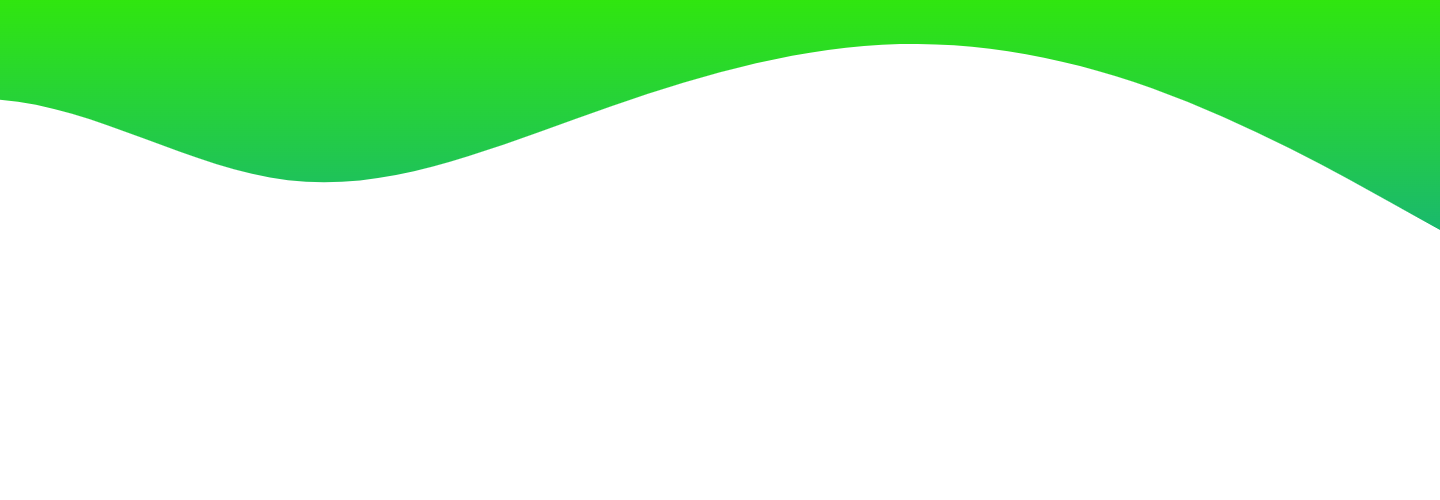
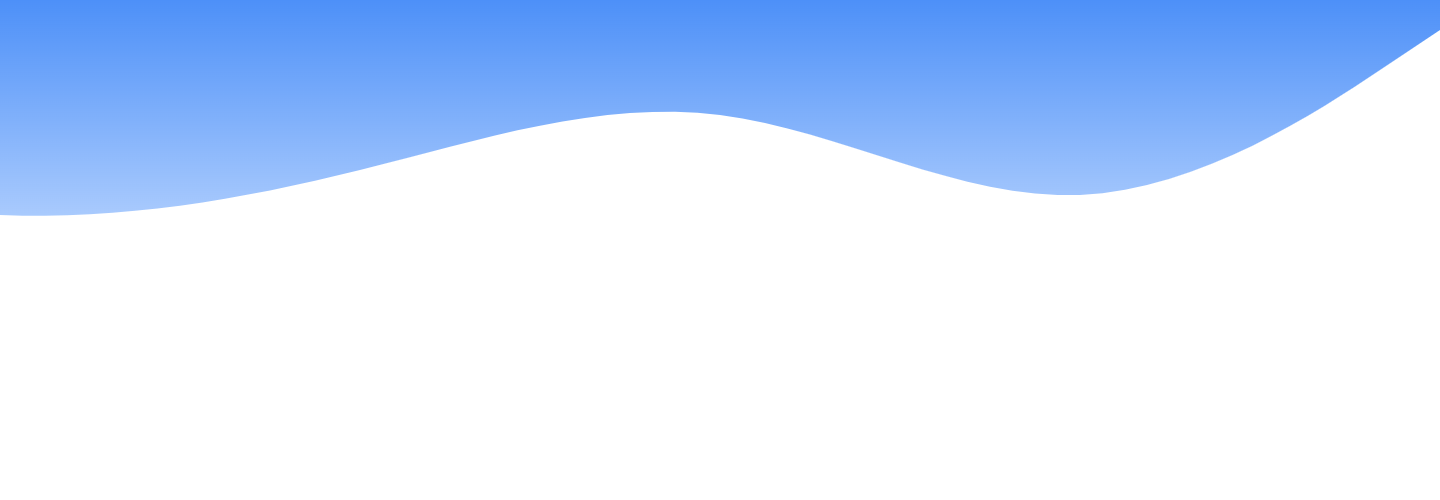
fix color hover

diff --git a/resources/scss/partials/_dashboard.scss b/resources/scss/partials/_dashboard.scss
@@ -34,7 +34,7 @@ body {
   width: 300px;
   height: 100%;
   // background: var(--blue);
-  background-image: url('https://c0.wallpaperflare.com/preview/92/222/407/journey-roadtrip-road-leading-line.jpg');
+  background-image: url('https://wallpapers.com/images/hd/hot-air-balloon-above-ocean-art-c50cs3rcasevsi3u.jpg');
   // border-left: 10px solid var(--blue);
   background-position: center;
   background-size: cover;
@@ -65,7 +65,7 @@ body {
 .navigation ul li:hover,
 .navigation ul li.hovered {
   // background-color: var(--white);
-  background-color: #E3F2FD;
+  background-color: #ffffff;
 }
 
 .navigation ul li:nth-child(1) {
@@ -143,7 +143,7 @@ body {
   background-color: transparent;
   border-radius: 50%;
   // box-shadow: 35px 35px 0 10px var(--white);
-  box-shadow: 35px 35px 0 10px #E3F2FD;
+  box-shadow: 35px 35px 0 10px #ffffff;
   pointer-events: none;
 }
 
@@ -158,7 +158,7 @@ body {
   background-color: transparent;
   border-radius: 50%;
   // box-shadow: 35px -35px 0 10px var(--white);
-  box-shadow: 35px -35px 0 10px #E3F2FD;
+  box-shadow: 35px -35px 0 10px #ffffff;
   pointer-events: none;
 }
 
